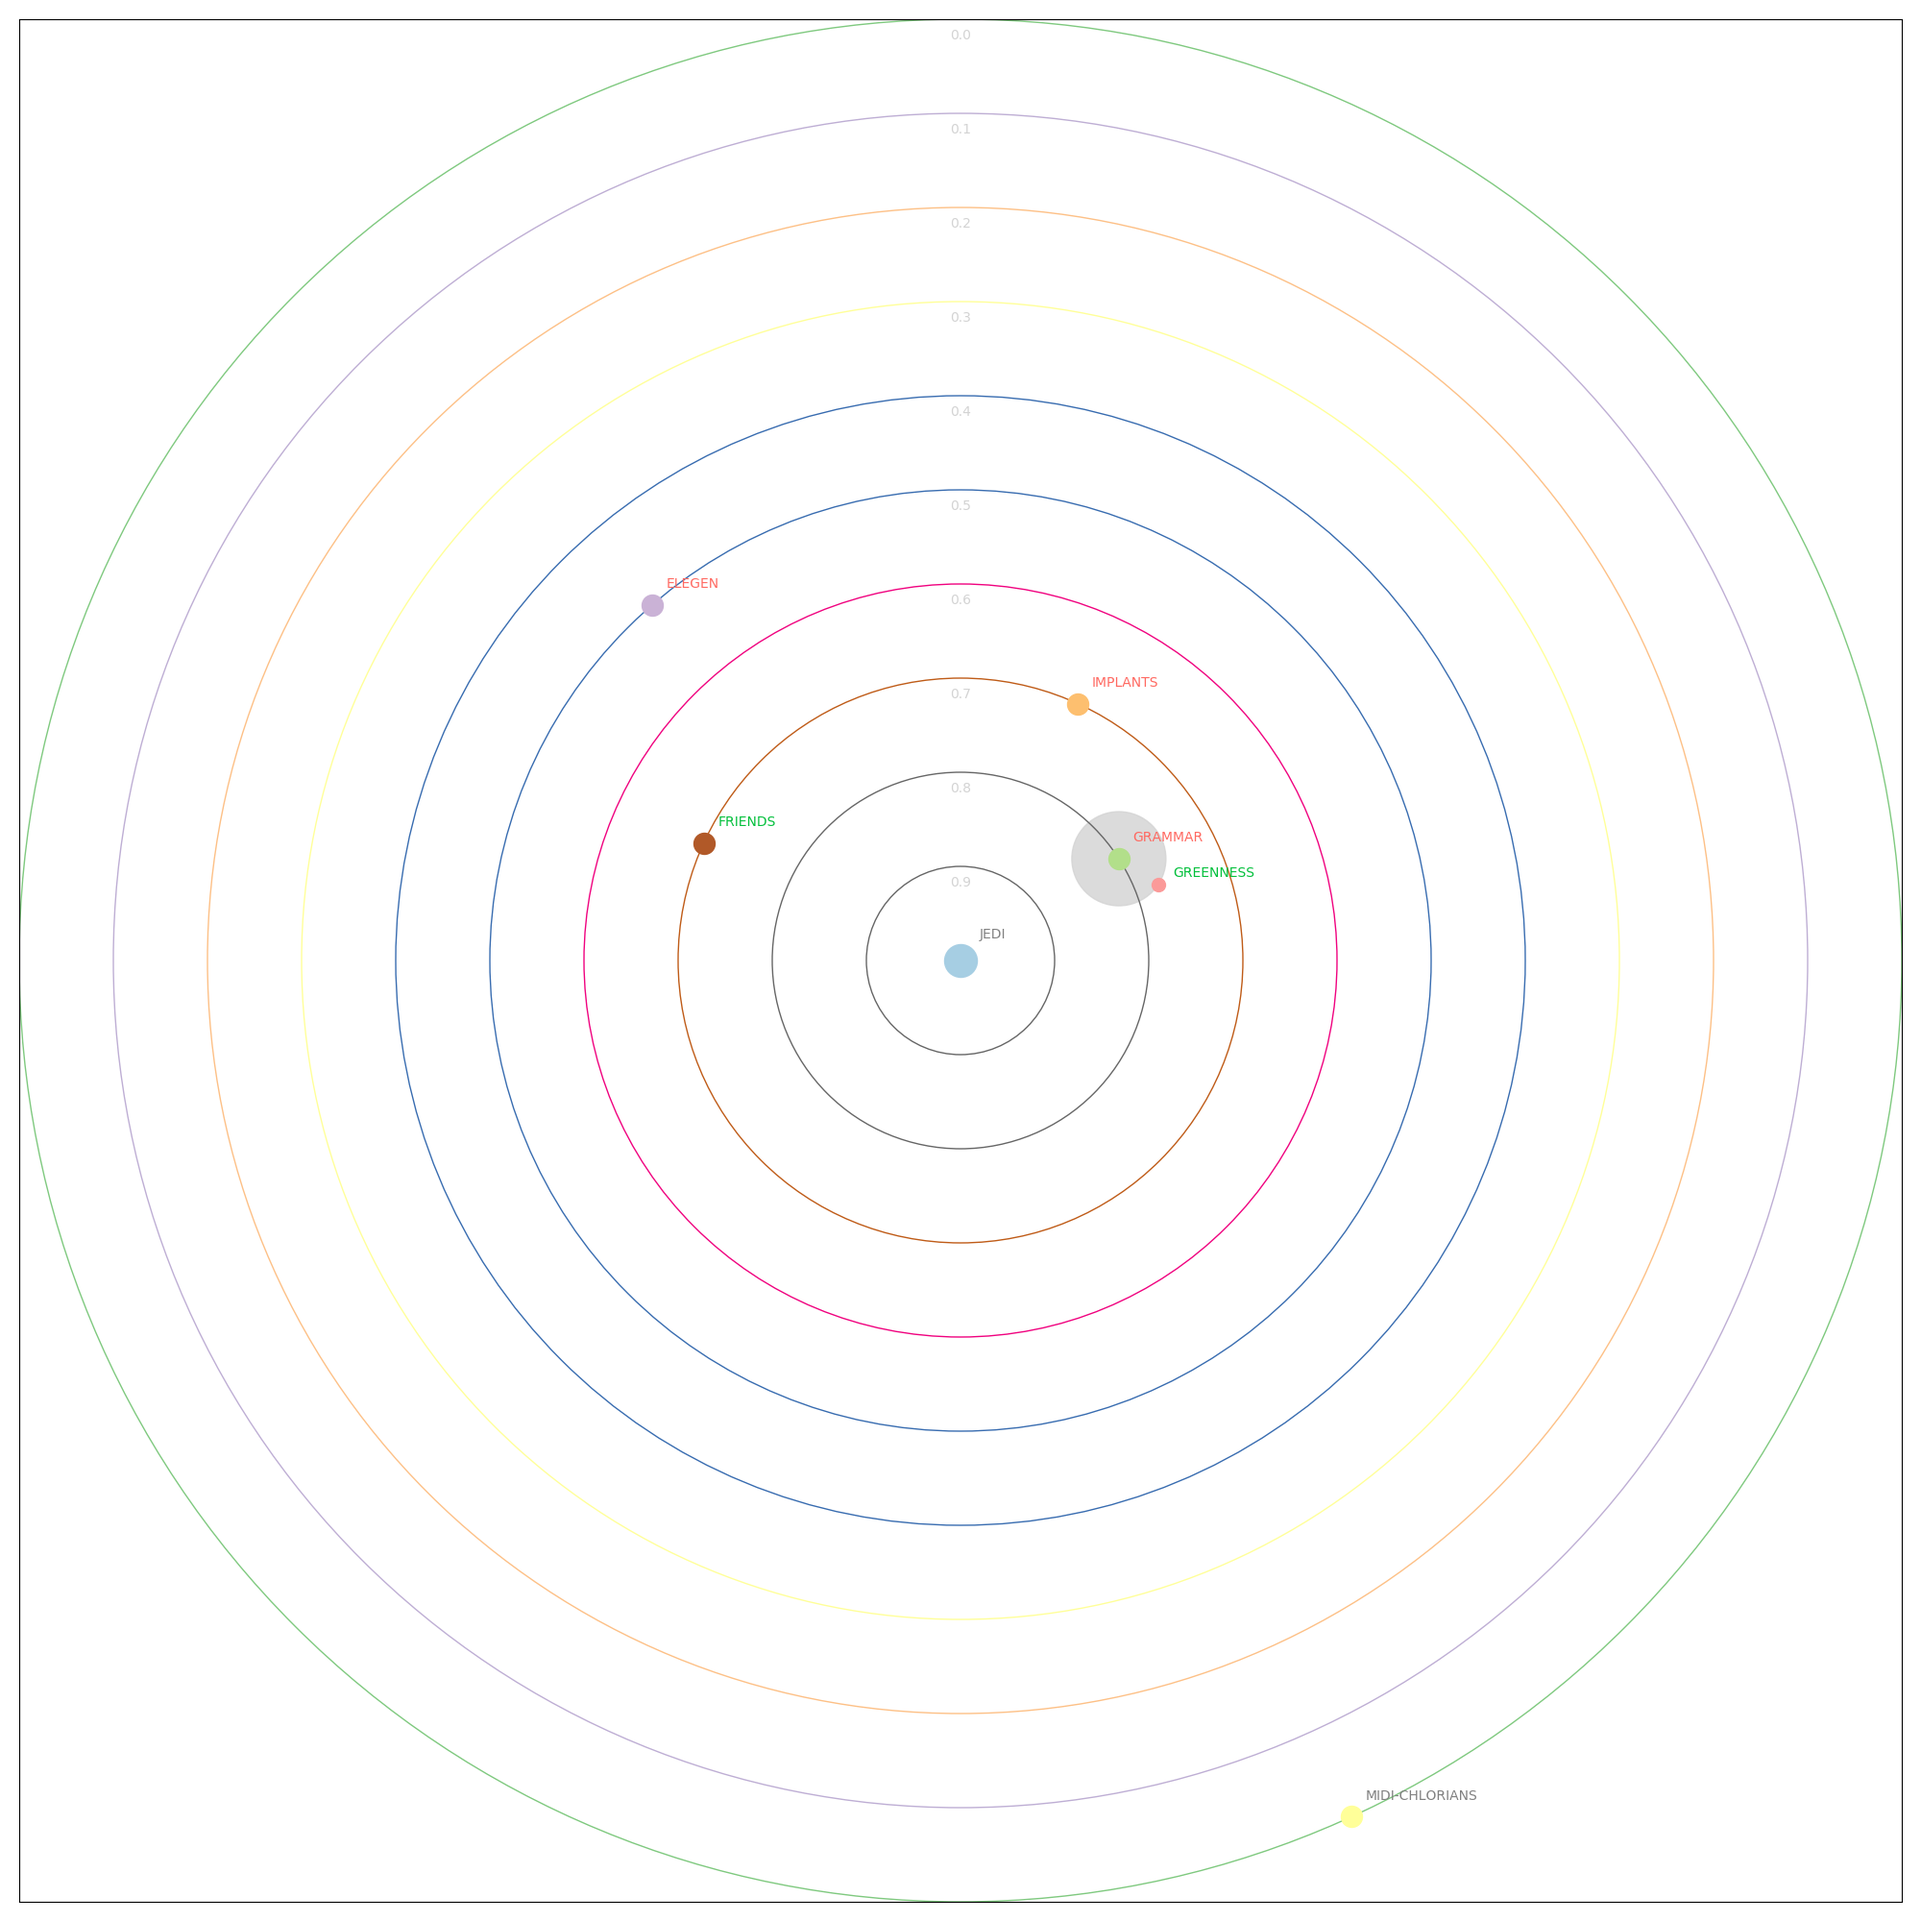
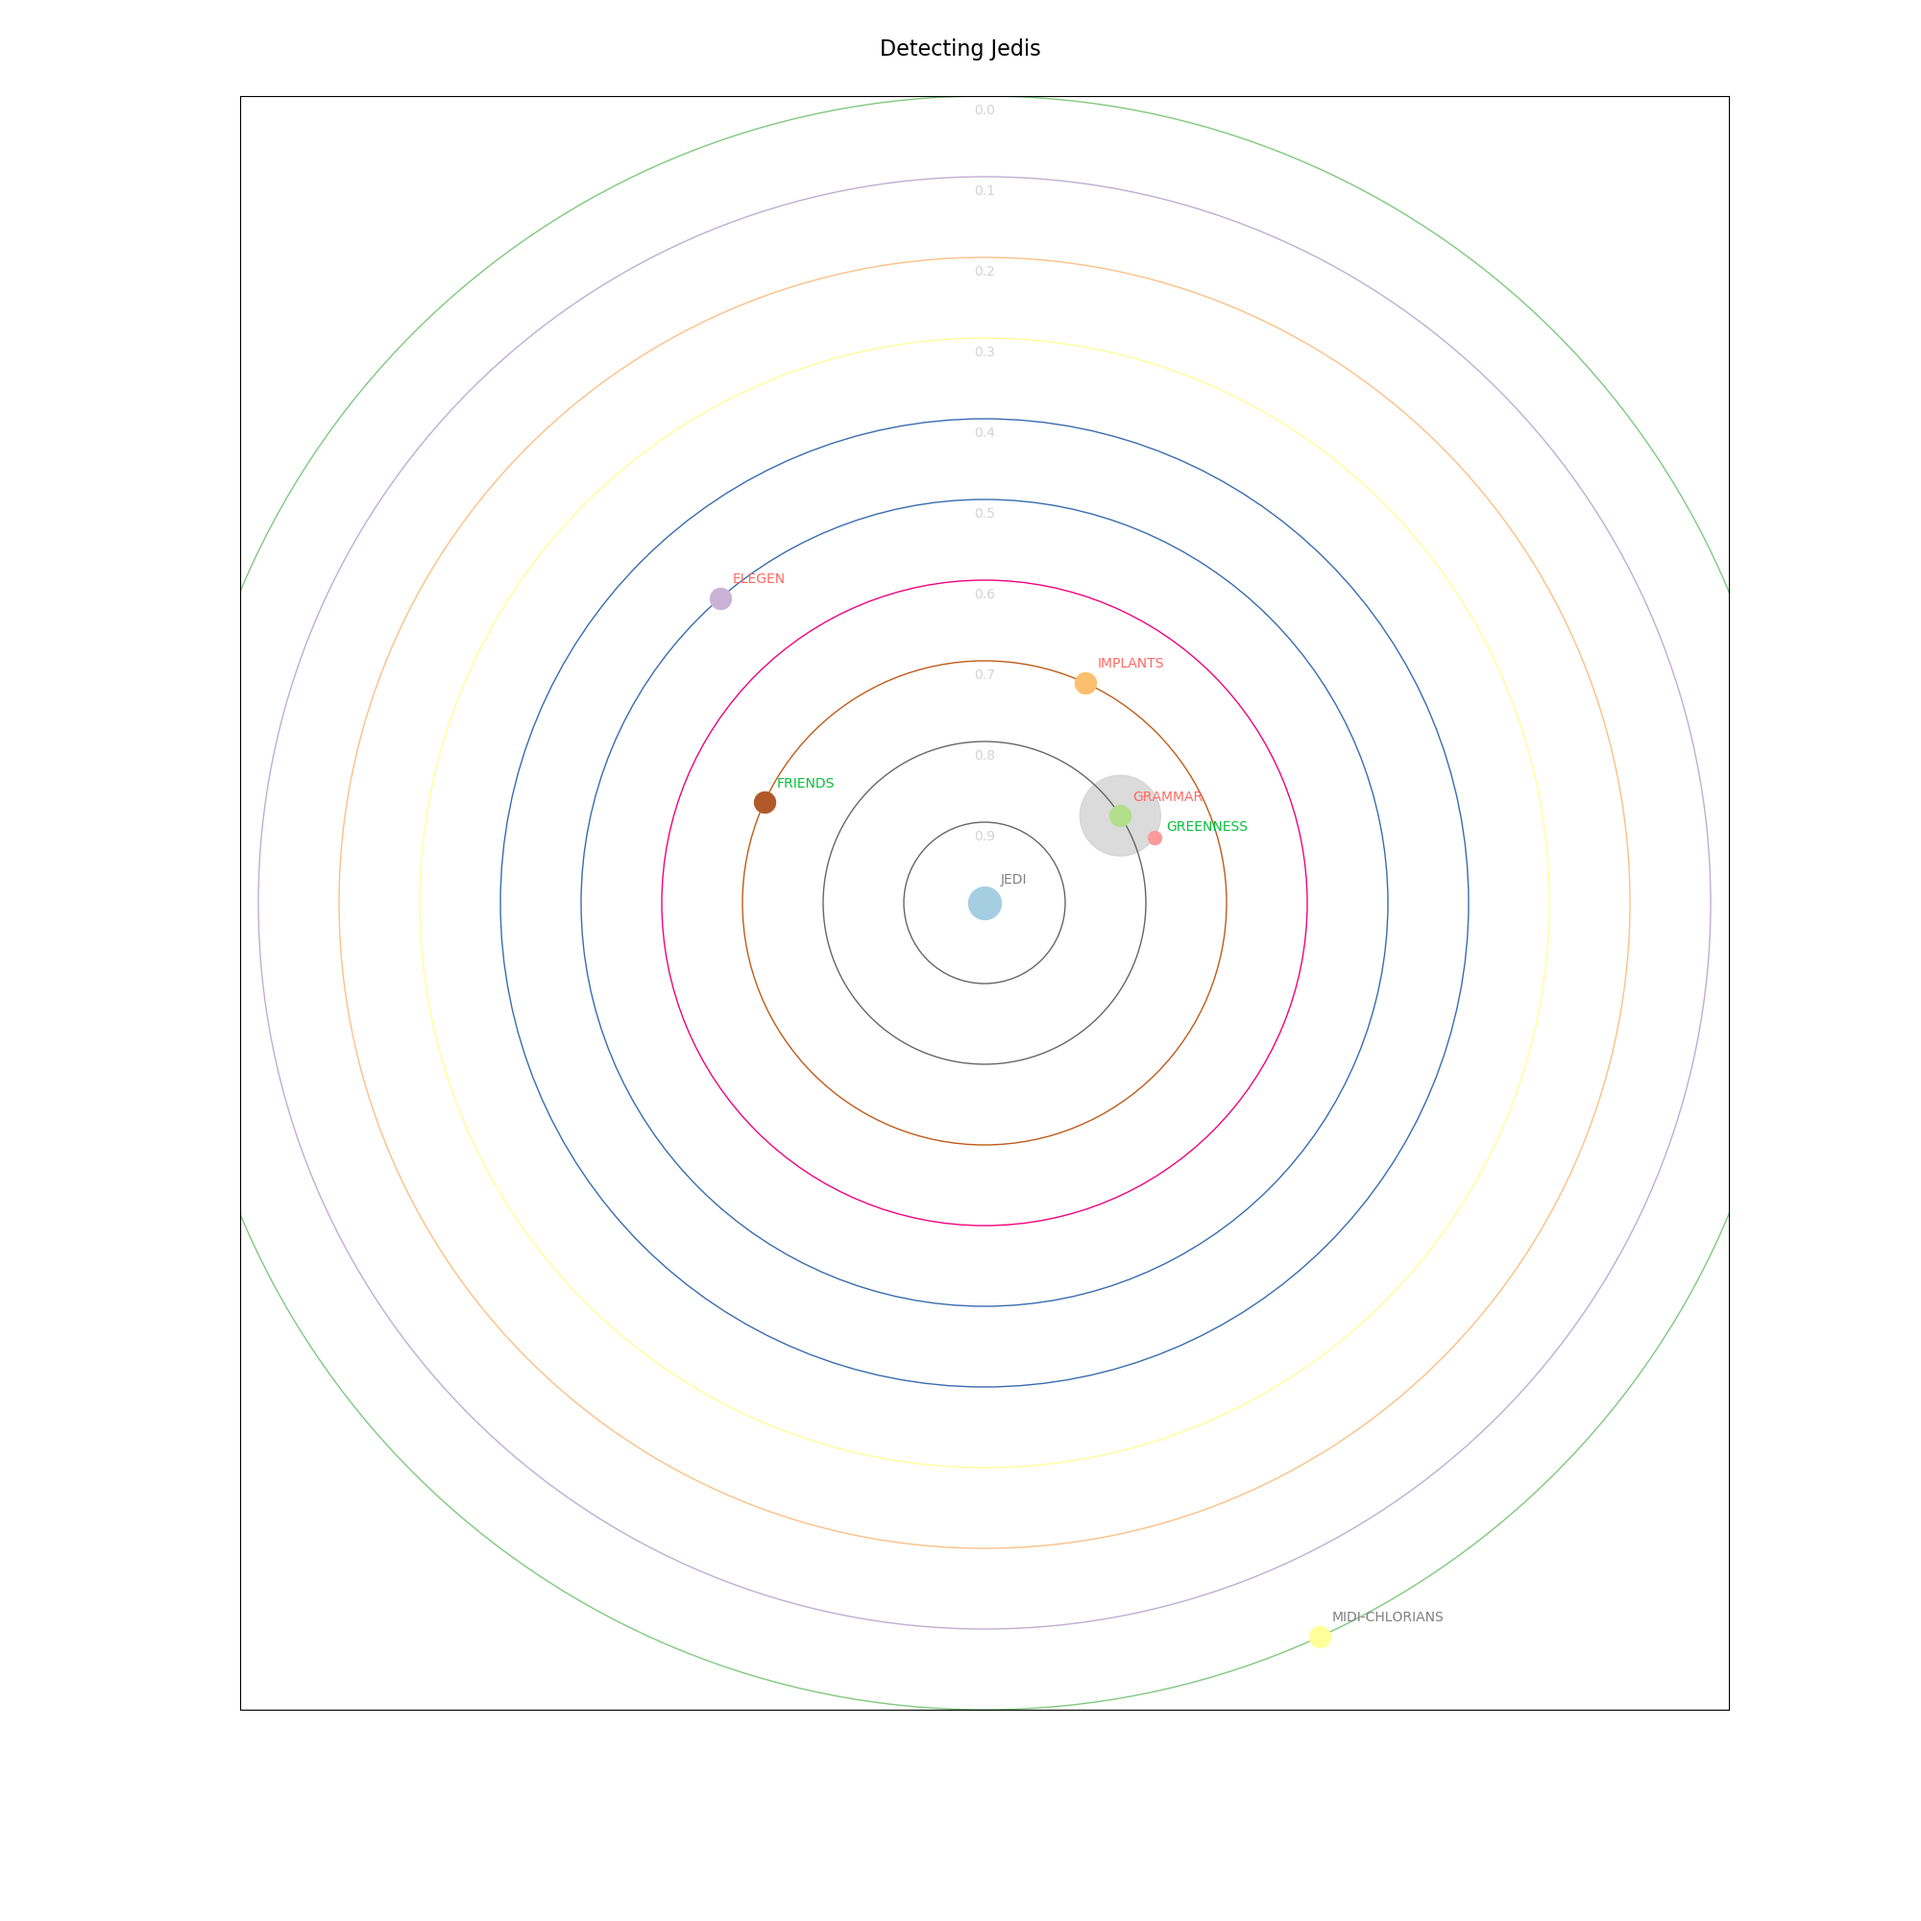
added title feature

diff --git a/solar_corr.py b/solar_corr.py
@@ -28,6 +28,7 @@ import numpy as np
 import sys
 import csv
 import warnings
+import argparse
 
 warnings.filterwarnings("ignore")
 
@@ -68,7 +69,8 @@ def transform_to_positive_corrs(data, sun_idx):
     return positive
 
 
-def solar_corr(data, labels, center, orbits=10, show_window=True, image_path="solar.png", save_png=True):
+def solar_corr(data, labels, center, orbits=10, show_window=True, image_path="solar.png",
+               save_png=True, title="Solar Correlation Map"):
     labels = np.array(labels)
     center_idx, center_idx_bool = label_to_idx(labels, center)
 
@@ -169,10 +171,14 @@ def solar_corr(data, labels, center, orbits=10, show_window=True, image_path="so
 
     labels_pos = np.array(labels)[labels_idx]
     recs = []
+
     ax = plt.gca()
 
     ax.axis("equal")
     plt.axis([-10, 10, -10, 10])
+    plt.suptitle(title, fontsize=16)
+
+    plt.subplots_adjust(top=0.95)
     if save_png:
         plt.savefig(image_path)
 
@@ -180,17 +186,20 @@ def solar_corr(data, labels, center, orbits=10, show_window=True, image_path="so
         plt.show()
 
 
-def main(input_csv, sun, image_path):
+def main(input_csv, sun, image_path, title):
     # Load data
     data = np.genfromtxt(input_csv, delimiter=",", skip_header=1)
     labels = csv.DictReader(open(input_csv), skipinitialspace=True).fieldnames
-    solar_corr(data, labels, sun, image_path=image_path)
+    solar_corr(data, labels, sun, image_path=image_path, title=title)
 
 
 if __name__ == "__main__":
-    try:
-        image_path = sys.argv[3] if len(sys.argv) > 3 else "solar.png"
-        main(sys.argv[1], sys.argv[2], image_path)
-    except:
-        print("python solar_corr.py CSV_FILE_PATH SUN_VARIABLE [IMAGE_FILE_NAME]")
-        print("example: python solar-corr.py jedi.csv JEDI jedi.png")
+    parser = argparse.ArgumentParser(description='Create a solar correlation map')
+    parser.add_argument("csv_file", type=str)
+    parser.add_argument("sun_variable", type=str)
+    parser.add_argument("image_file_name",  type=str, nargs="?", default="solar.png")
+    parser.add_argument("--title", nargs="?", default=None)
+    args = parser.parse_args()
+    if args.title is None:
+        args.title = "Solar Correlation Map for '{}' ".format(args.sun_variable)
+    main(args.csv_file, args.sun_variable, args.image_file_name, args.title)

diff --git a/README.md b/README.md
@@ -11,7 +11,7 @@ pip -r requirements.txt``
 
 
 ## Basic usage
-``python solar_corr.py CSV_FILE_PATH SUN_VARIABLE [IMAGE_FILE_NAME]``
+``python solar_corr.py CSV_FILE_PATH SUN_VARIABLE [IMAGE_FILE_NAME] --title "TITLE FOR THE PLOT"``
 
 
 The csv file must have a header that includes the variable/column names in the first line.
@@ -26,7 +26,7 @@ The image file name is optional and can be used to change the default file name 
 
 
 ## Example
-``python solar_corr.py jedi.csv JEDI jedi.png``
+``python solar_corr.py jedi.csv JEDI solar.png --title "Detecting Jedis"``
 
 ![solar correlation map](https://github.com/Zapf-Consulting/solar-correlation-map/blob/master/solar.png "Solar Correlation Map example")
 
